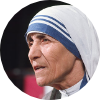
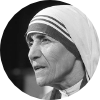
All photos now black and white for consistency. Added state to display quote data on screen. Added random quote functionality on page load and when a button is clicked

diff --git a/quote-generator/src/components/Home.js b/quote-generator/src/components/Home.js
@@ -1,6 +1,6 @@
 import './Home.css';
 
-const Home = ({ QuoteData }) => {
+const Home = ({ Quote, NewQuote }) => {
 
     return ( 
         <div className="home">
@@ -9,14 +9,14 @@ const Home = ({ QuoteData }) => {
                     <button className="previous-quote">Previous Quote</button>
                 </div>
                 <div className="quote-body centered">
-                    <h2 className="quote-text">" {QuoteData[0].quote} "</h2>
+                    <h2 className="quote-text">" {Quote.quote} "</h2>
                     <div className="quote-author">
-                        <img className="author-image" src={QuoteData[0].image} alt="Headshot of the quote's author" />
-                        <h4 className="author-name">- {QuoteData[0].author}</h4>
+                        <img className="author-image" src={Quote.image} alt="Headshot of the quote's author" />
+                        <h4 className="author-name">- {Quote.author}</h4>
                     </div>
                 </div>
                 <div className="quote-action centered">
-                    <button className="next-quote">Next Quote</button>
+                    <button className="next-quote" onClick={NewQuote}>Next Quote</button>
                 </div>
             </section>
         </div>

diff --git a/quote-generator/src/App.js b/quote-generator/src/App.js
@@ -9,10 +9,15 @@ import { QuoteData } from './data/QuoteData';
 function App() {
 
   const [darkMode, setDarkMode] = useState(false);
+  const [currentQuote, setCurrentQuote] = useState(QuoteData[Math.floor(Math.random() * 30)]);
 
-  function handleDarkMode() {
+  const handleDarkMode = () => {
     setDarkMode(!darkMode);
-    console.log("Dark mode active? " + darkMode)
+    console.log("Dark mode active? " + darkMode);
+  }
+
+  const newQuote = () => {
+    setCurrentQuote(QuoteData[Math.floor(Math.random() * 30)]);
   }
 
   return (
@@ -26,7 +31,8 @@ function App() {
           <Switch>
             <Route exact path="/">
               <Home 
-                QuoteData={QuoteData}
+                Quote={currentQuote}
+                NewQuote={newQuote}
               />
             </Route>
             <Route path="/my-quotes">

diff --git a/quote-generator/src/components/Navbar.css b/quote-generator/src/components/Navbar.css
@@ -1,5 +1,5 @@
 .navbar-container {
-  /* width: 100vw; */
+  width: 100vw;
 }
 
 .navbar {
